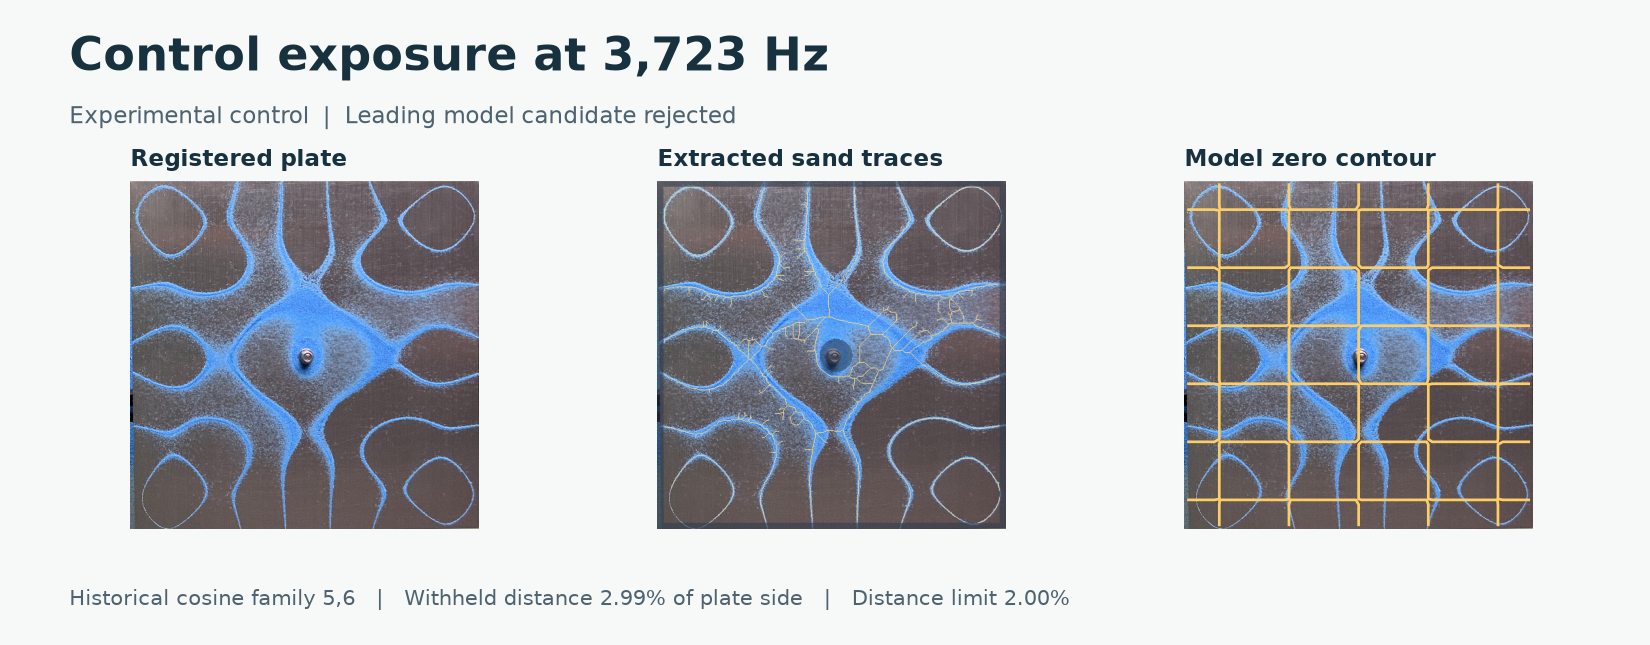
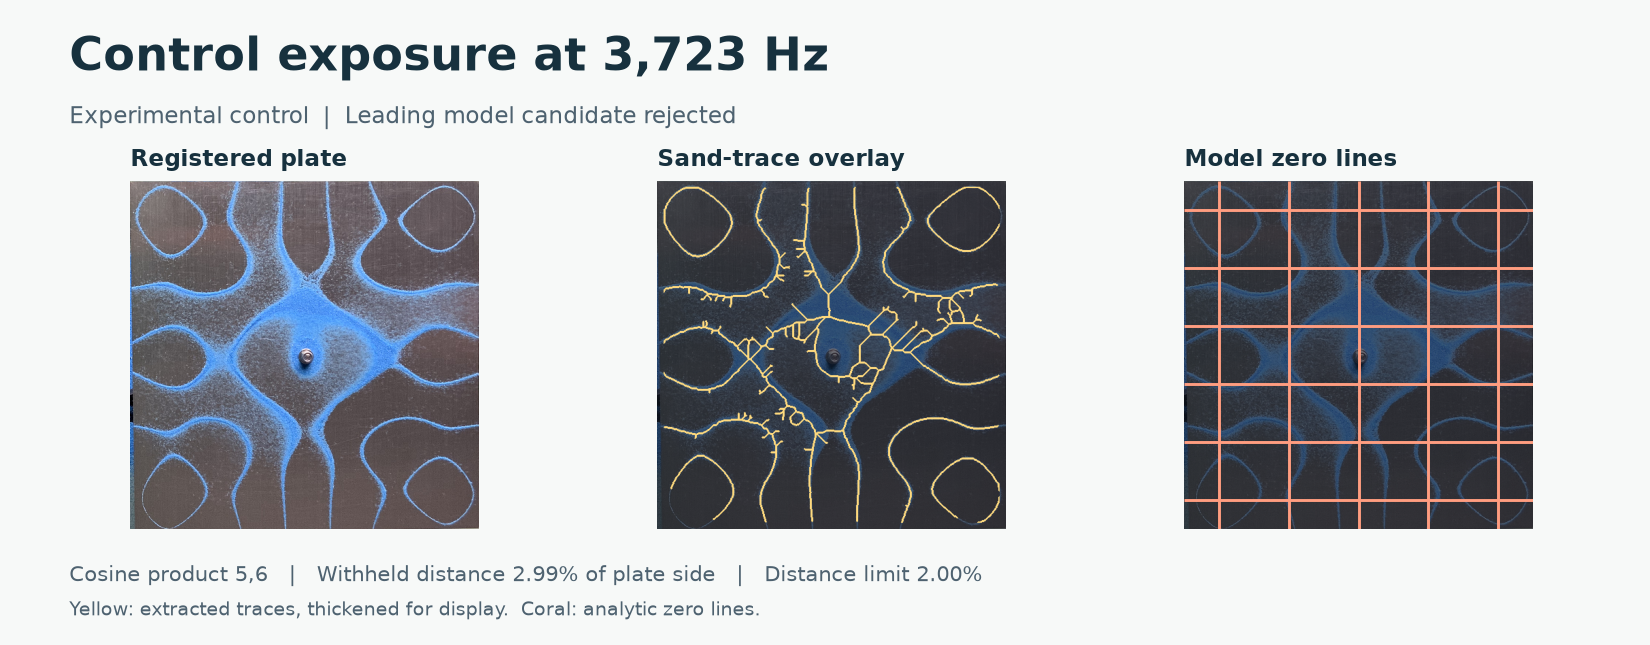
Verify and clarify the README figures

Changed region(s): [[0.3709, 0.2171, 0.6182, 0.8372], [0.7109, 0.2171, 0.9273, 0.8372], [0.0309, 0.8682, 0.6491, 0.9612]]

diff --git a/werkzeuge/v3_bildtafeln.py b/werkzeuge/v3_bildtafeln.py
@@ -1,0 +1,129 @@
+"""Erzeuge die zwei freigegebenen README-Tafeln aus lokalen V1/V2-Ausgaben."""
+from __future__ import annotations
+
+from argparse import ArgumentParser
+from io import BytesIO
+from pathlib import Path
+
+import numpy as np
+from PIL import Image
+from scipy.ndimage import binary_dilation
+
+from chladni.abbildungen import plt, stil
+from chladni.auswertung import lese_json
+
+BG, INK, MUTED = "#f7f9f8", "#17313e", "#4e6270"
+MODEL_LINE = "#ff9d80"
+
+
+def _bilddaten(pfad: Path) -> tuple[np.ndarray, np.ma.MaskedArray, np.ndarray, np.ndarray]:
+    with Image.open(pfad/"platte.png") as bild:
+        rgb = np.asarray(bild.convert("RGB"))
+    with np.load(pfad/"raster.npz") as raster:
+        sichtbar = raster["sicht"]
+        score = np.ma.masked_where(~sichtbar, raster["score"])
+        spur = binary_dilation(raster["linien"] & sichtbar) & sichtbar
+    hintergrund = np.rint(.38*rgb + .62*np.array([19,27,36])).astype(np.uint8)
+    overlay = hintergrund.copy()
+    overlay[spur] = (255,218,126)
+    return rgb, score, hintergrund, overlay
+
+
+def _layout(spalten: int, groesse: tuple[float,float], titel: str, untertitel: str):
+    fig, ax = plt.subplots(1,spalten,figsize=groesse)
+    fig.subplots_adjust(left=.042,right=.966,top=.72,bottom=.18,wspace=.12)
+    fig.text(.042,.945,titel,fontsize=22,weight="bold",va="top",color=INK)
+    fig.text(.042,.836,untertitel,fontsize=11,va="top",color=MUTED)
+    return fig, ax
+
+
+def _ansicht(ax, titel: str, raster, **kwargs):
+    flaeche = ax.imshow(raster,**kwargs)
+    ax.set_axis_off()
+    ax.set_title(titel,fontsize=10.8,weight="bold",loc="left",pad=7,color=INK)
+    return flaeche
+
+
+def _farbskala(fig, ax, flaeche, ticks, titel: str):
+    bar = fig.colorbar(flaeche,ax=ax,orientation="horizontal",fraction=.06,pad=.105,ticks=ticks)
+    bar.ax.tick_params(labelsize=8,length=2)
+    bar.ax.set_xlabel(titel,fontsize=8,labelpad=1)
+
+
+def _png(fig, ziel: Path) -> None:
+    buf = BytesIO()
+    fig.savefig(buf,format="png",dpi=150,facecolor=BG)
+    buf.seek(0)
+    # Speichere nur RGB-Pixel, ohne Metadaten aus den Quelldateien.
+    with Image.open(buf) as bild:
+        Image.fromarray(np.asarray(bild.convert("RGB"))).save(ziel,optimize=True)
+    plt.close(fig)
+
+
+def _experiment(privat: Path, ziel: Path) -> None:
+    frame = privat/"analyse/IMG_1601"
+    rgb, score, _, overlay = _bilddaten(frame)
+    with Image.open(frame/"original-vorschau.jpg") as foto:
+        aufbau = foto.convert("RGB")
+    fig, ax = _layout(5,(13.5,3.85),"Chladni pattern at 4,122 Hz",
+                      "GP2 laboratory experiment  |  Blue sand on a centrally mounted plate")
+    _ansicht(ax[0],"Original setup photo",aufbau)
+    _ansicht(ax[1],"Registered plate",rgb)
+    cmap = plt.get_cmap("cividis").with_extremes(bad="#e4e9ed")
+    scorebild = _ansicht(ax[2],"Blue-excess score",score,cmap=cmap,vmin=0,vmax=.46)
+    _ansicht(ax[3],"Sand-trace overlay",overlay)
+    feld = np.load(frame/"modellfeld.npy")
+    normiert = feld/np.max(np.abs(feld))
+    modell = _ansicht(ax[4],"Free plate · #26/27",normiert,cmap="RdBu_r",vmin=-1,vmax=1,extent=(0,1,1,0))
+    xy = (np.arange(len(feld))+.5)/len(feld)
+    ax[4].contour(xy,xy,feld,levels=[0],colors=[INK],linewidths=.9)
+    _farbskala(fig,ax[4],modell,[-1,0,1],"Normalized model displacement")
+    _farbskala(fig,ax[2],scorebild,[0,.2,.4],"Image score (dimensionless)")
+    fig.text(.042,.051,"Yellow lines show the extracted sand traces, thickened for display. "
+             "The last panel shows the calculated field.",fontsize=9.5,color=MUTED)
+    _png(fig,ziel/"experiment-4122.png")
+
+
+def _kontrolle(privat: Path, ziel: Path) -> None:
+    inversion = lese_json(privat/"v2/invers.json")
+    aufnahme = next(z for z in inversion["ergebnisse"] if z["id"]=="IMG_1583")
+    kandidat = aufnahme["rang"][0]
+    if kandidat["modell"] != "historisch" or len(kandidat["moden"]) != 1:
+        raise ValueError("Die Kontrolltafel erwartet das archivierte Kosinusprodukt als führenden Kandidaten.")
+    m,n = map(int,kandidat["moden"][0].split(","))
+    # Spiegelungen ändern das Vorzeichen, aber nicht die symmetrischen Nullstellen.
+    # Eine ungerade Anzahl Vierteldrehungen vertauscht die beiden Achsen.
+    nx,ny = (n,m) if kandidat["d4"] % 2 else (m,n)
+    rgb, _, hintergrund, overlay = _bilddaten(privat/"analyse"/aufnahme["id"])
+    distanz = 100*kandidat["test_rel"]
+    grenze = 100*inversion["synthetische_schwellen"]["max_test_rel"]
+    if aufnahme["status"] != "KEIN_BELASTBARER_TREFFER" or distanz <= grenze:
+        raise ValueError("Die Kontrolltafel erwartet den archivierten Abstand oberhalb der Prüfschwelle.")
+    fig, ax = _layout(3,(11,4.3),"Control exposure at 3,723 Hz",
+                      "Experimental control  |  Leading model candidate rejected")
+    _ansicht(ax[0],"Registered plate",rgb)
+    _ansicht(ax[1],"Sand-trace overlay",overlay)
+    _ansicht(ax[2],"Model zero lines",hintergrund,extent=(0,1,1,0))
+    ax[2].vlines((np.arange(nx)+.5)/nx,0,1,colors=MODEL_LINE,linewidth=1.4)
+    ax[2].hlines((np.arange(ny)+.5)/ny,0,1,colors=MODEL_LINE,linewidth=1.4)
+    ax[2].set(xlim=(0,1),ylim=(1,0))
+    fig.text(.042,.099,f"Cosine product {m},{n}   |   Withheld distance {distanz:.2f}% of plate side   |   "
+             f"Distance limit {grenze:.2f}%",fontsize=10,color=MUTED)
+    fig.text(.042,.046,"Yellow: extracted traces, thickened for display.  Coral: analytic zero lines.",
+             fontsize=9.2,color=MUTED)
+    _png(fig,ziel/"control-3723.png")
+
+
+def main() -> None:
+    parser = ArgumentParser(description=__doc__)
+    parser.add_argument("--privat",type=Path,required=True,help="Lokaler Ausgabeordner mit analyse/ und v2/.")
+    parser.add_argument("--ziel",type=Path,required=True,help="Ausgabeordner für die zwei PNG-Tafeln.")
+    args = parser.parse_args()
+    args.ziel.mkdir(parents=True,exist_ok=True)
+    with plt.rc_context(stil() | {"figure.facecolor":BG,"axes.facecolor":BG}):
+        _experiment(args.privat,args.ziel)
+        _kontrolle(args.privat,args.ziel)
+
+
+if __name__ == "__main__":
+    main()

diff --git a/chladni/figuren_v3.py b/chladni/figuren_v3.py
@@ -65,7 +65,7 @@ def _gap(g: dict,ziel: Path) -> None:
     rows=[r for r in g["ablationsstudien"] if r["name"] in names]
     fig,ax=plt.subplots(figsize=(9.15,5.8))
     fig.subplots_adjust(top=.77,bottom=.18,left=.255,right=.96)
-    _kopf(fig,"The control set remains outside the fit limit",
+    _kopf(fig,"All control distances exceed the limit",
           "3,720–3,726 Hz archive  |  Summary of seven exposures per catalogue ablation")
     limit=100*g["schwellen"]["max_test_rel"]
     ax.axvspan(0,limit,color="#d9ece8",alpha=.65)
@@ -126,7 +126,7 @@ def _synthetik(g: dict,ziel: Path) -> None:
         ax.set_ylim(0,17)
         ax.set_title(titel,loc="left",fontsize=12,fontweight="bold",pad=8)
         _achsen(ax)
-    achsen[0].set_ylabel("Fields containing the known family")
+    achsen[0].set_ylabel("Cases with the correct family in top k")
     achsen[0].legend(loc="upper center",bbox_to_anchor=(1.02,-.16),ncol=3,frameon=False,fontsize=9)
     speichere(fig,ziel/"synthetik")
 

diff --git a/dokumentation/V3_REPRODUKTION.md b/dokumentation/V3_REPRODUKTION.md
@@ -52,6 +52,11 @@ Die IDs der zugrunde liegenden lokalen Artefakte sind per SHA-256 im V3-Laufmani
 ## Bildtafeln aus zwei freigegebenen Aufnahmen
 
 - **4122 Hz** · Die Quelle ist die lokale Aufnahme `IMG_1601`. Die Tafel kombiniert die vollständige, verkleinert eingebettete Originalvorschau des Aufbaus, die perspektivisch registrierte Platte und die gespeicherten Raster `score`, `sicht` und `linien`. Die Heatmap zeigt den dimensionslosen Blauüberschuss-Score mit fester Farbskala von 0 bis 0,46. Gelb markiert das Skelett der segmentierten Sandmaske auf der abgedunkelten Platte. Die Linienbreite ist zur Darstellung vergrößert. Die gespeicherten Linienraster und Kennzahlen bleiben unverändert. Das letzte Feld zeigt die normierte Auslenkung und Nullkontur aus der archivierten Datei `modellfeld.npy` für die freie Platte #26/27 als numerischen Vergleich.
-- **3723 Hz** · Die Quelle ist die lokale Kontrollaufnahme `IMG_1583`. Die Modellkontur nutzt die Nullhöhe des führenden V2-Kandidaten aus `invers.json` und `inverse_felder.npz`. Die Prüfdistanz auf den zurückgehaltenen Streifen beträgt gerundet 2,99 % der Plattenseite. Die geometrische Schwelle beträgt 2,00 %.
+- **3723 Hz** · Die Quelle ist die lokale Kontrollaufnahme `IMG_1583`. Die gelben Spuren verwenden wie bei 4122 Hz das gespeicherte Skelett mit verbreiterter Darstellung. Die Verästelungen in breiten Sandflächen entstehen beim Skelettieren der segmentierten Flächen. Die korallfarbenen Geraden zeigen die exakte Nullmenge des in `invers.json` archivierten führenden Kosinusprodukts (5,6), in dessen gespeicherter Orientierung. Für die Prüfdistanz werden dieselben rasterisierten Modellknoten verwendet, die in `inverse_felder.npz` archiviert sind. Sie beträgt gerundet 2,99 % der Plattenseite bei einer Distanzgrenze von 2,00 %.
 
 Die Veröffentlichung enthält die zwei fertigen PNG-Tafeln ohne eingebettete EXIF-Daten. Für eine Neuberechnung werden die privaten V1- und V2-Artefakte benötigt.
+
+```powershell
+$privat = Read-Host 'Lokaler Ausgabeordner mit analyse/ und v2/'
+python -m werkzeuge.v3_bildtafeln --privat $privat --ziel assets/figures
+```

diff --git a/README.md b/README.md
@@ -30,9 +30,9 @@ For **32 ideal synthetic fields**, the known family appears in the **top six in 
 
 **0 of 7** real control exposures meet the fixed acceptance rule. With the full catalogue, the leading families have distances of **2.99–3.30% of the plate side** on the withheld stripes, above the **2.00%** limit. The plot shows the range and median across the same exposures for each catalogue variant. The abstention result leaves the physical cause open. [Control study and limitations](dokumentation/V3_ERGEBNISSE.md)
 
-At **3,723 Hz**, the leading candidate's zero contour misses much of the visible sand pattern. Its withheld distance is **2.99%**, so the rule rejects it.
+At **3,723 Hz**, the yellow traces show the extracted sand skeleton. The coral straight lines are the analytic zeros of the leading cosine-product candidate. Its distance on the withheld raster stripes is **2.99%**, so it fails the distance criterion.
 
-![Control exposure at 3,723 Hz showing the registered plate, extracted sand traces, and rejected model's zero contour.](assets/figures/control-3723.png)
+![Control exposure at 3,723 Hz showing the registered plate, yellow sand traces, and the rejected model's analytic zero lines in coral.](assets/figures/control-3723.png)
 
 ![Ranges and medians of withheld-stripe distances across seven control exposures for each catalogue variant. All ranges lie beyond the two-percent distance limit.](assets/figures/gap.png)
 
